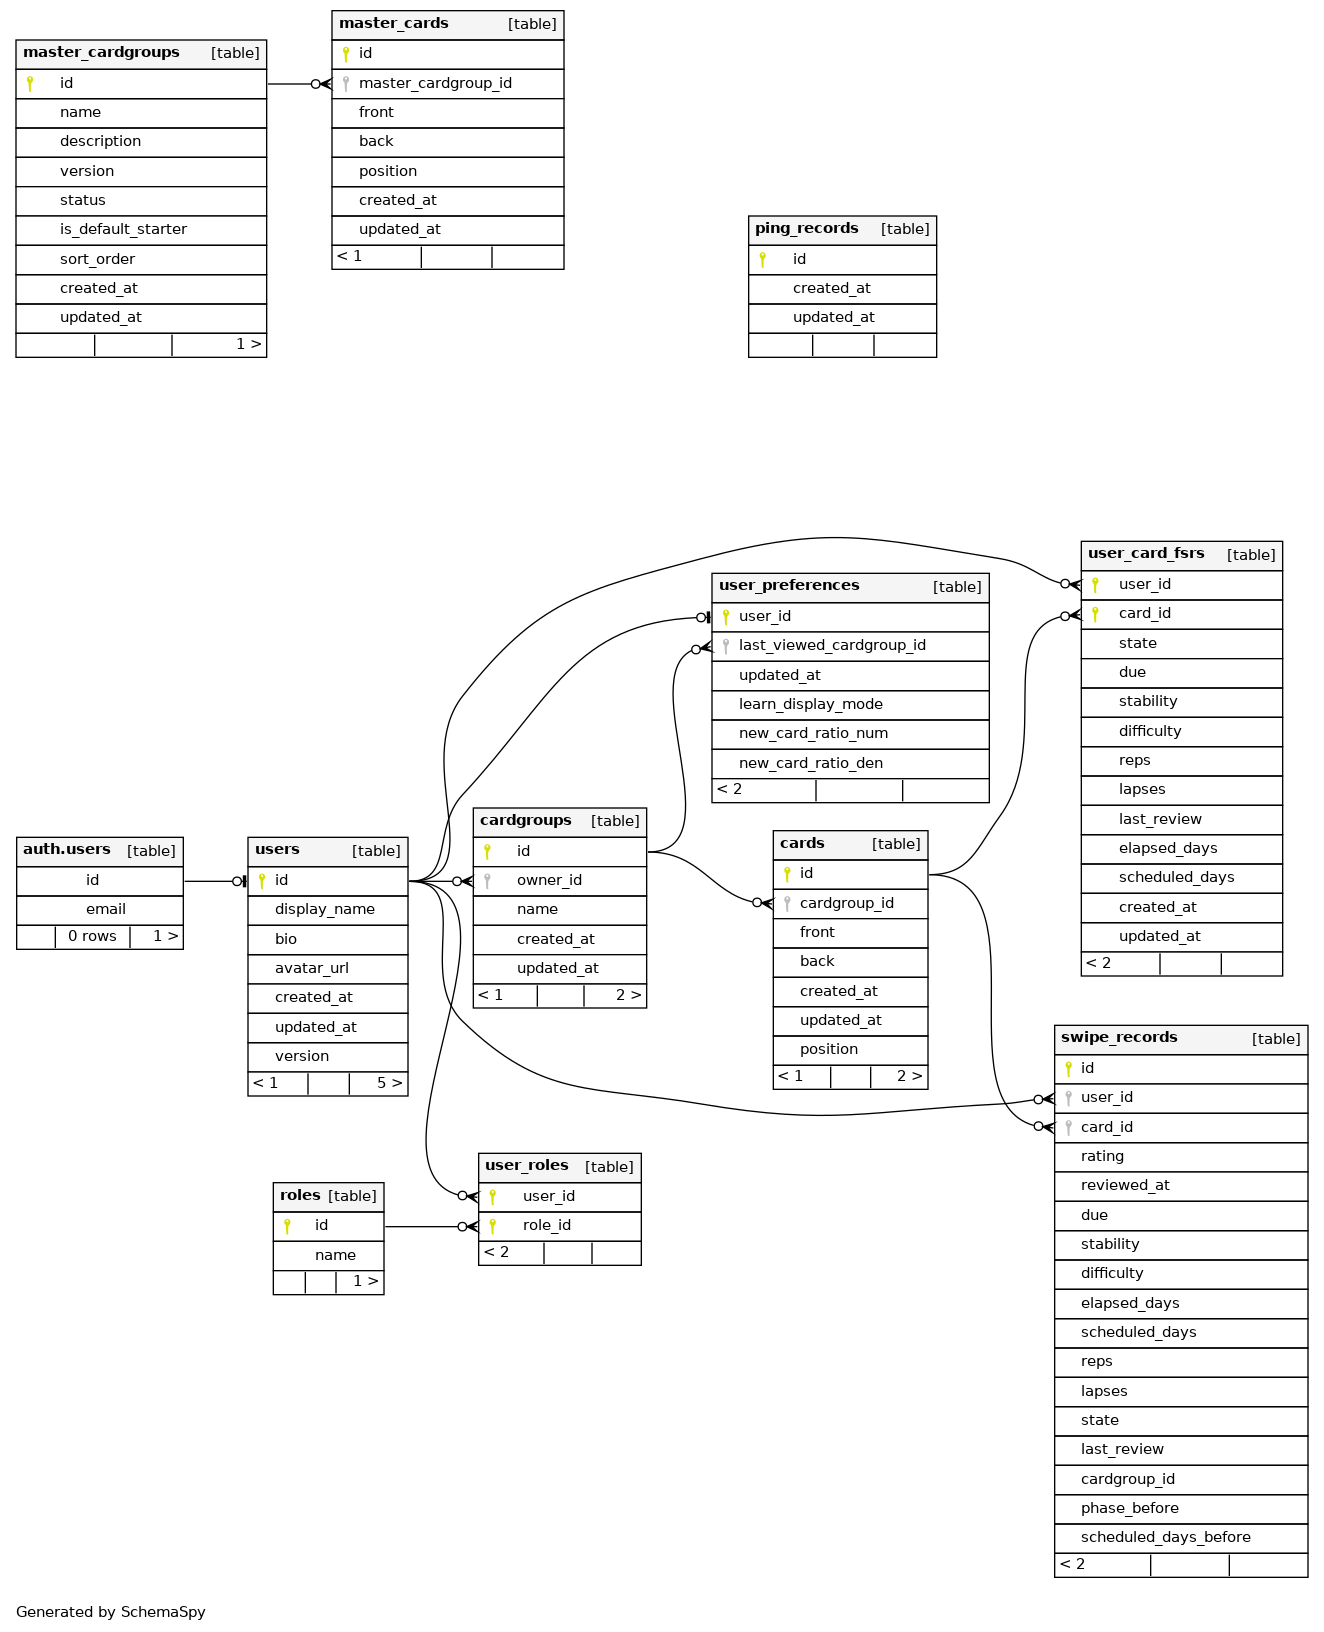
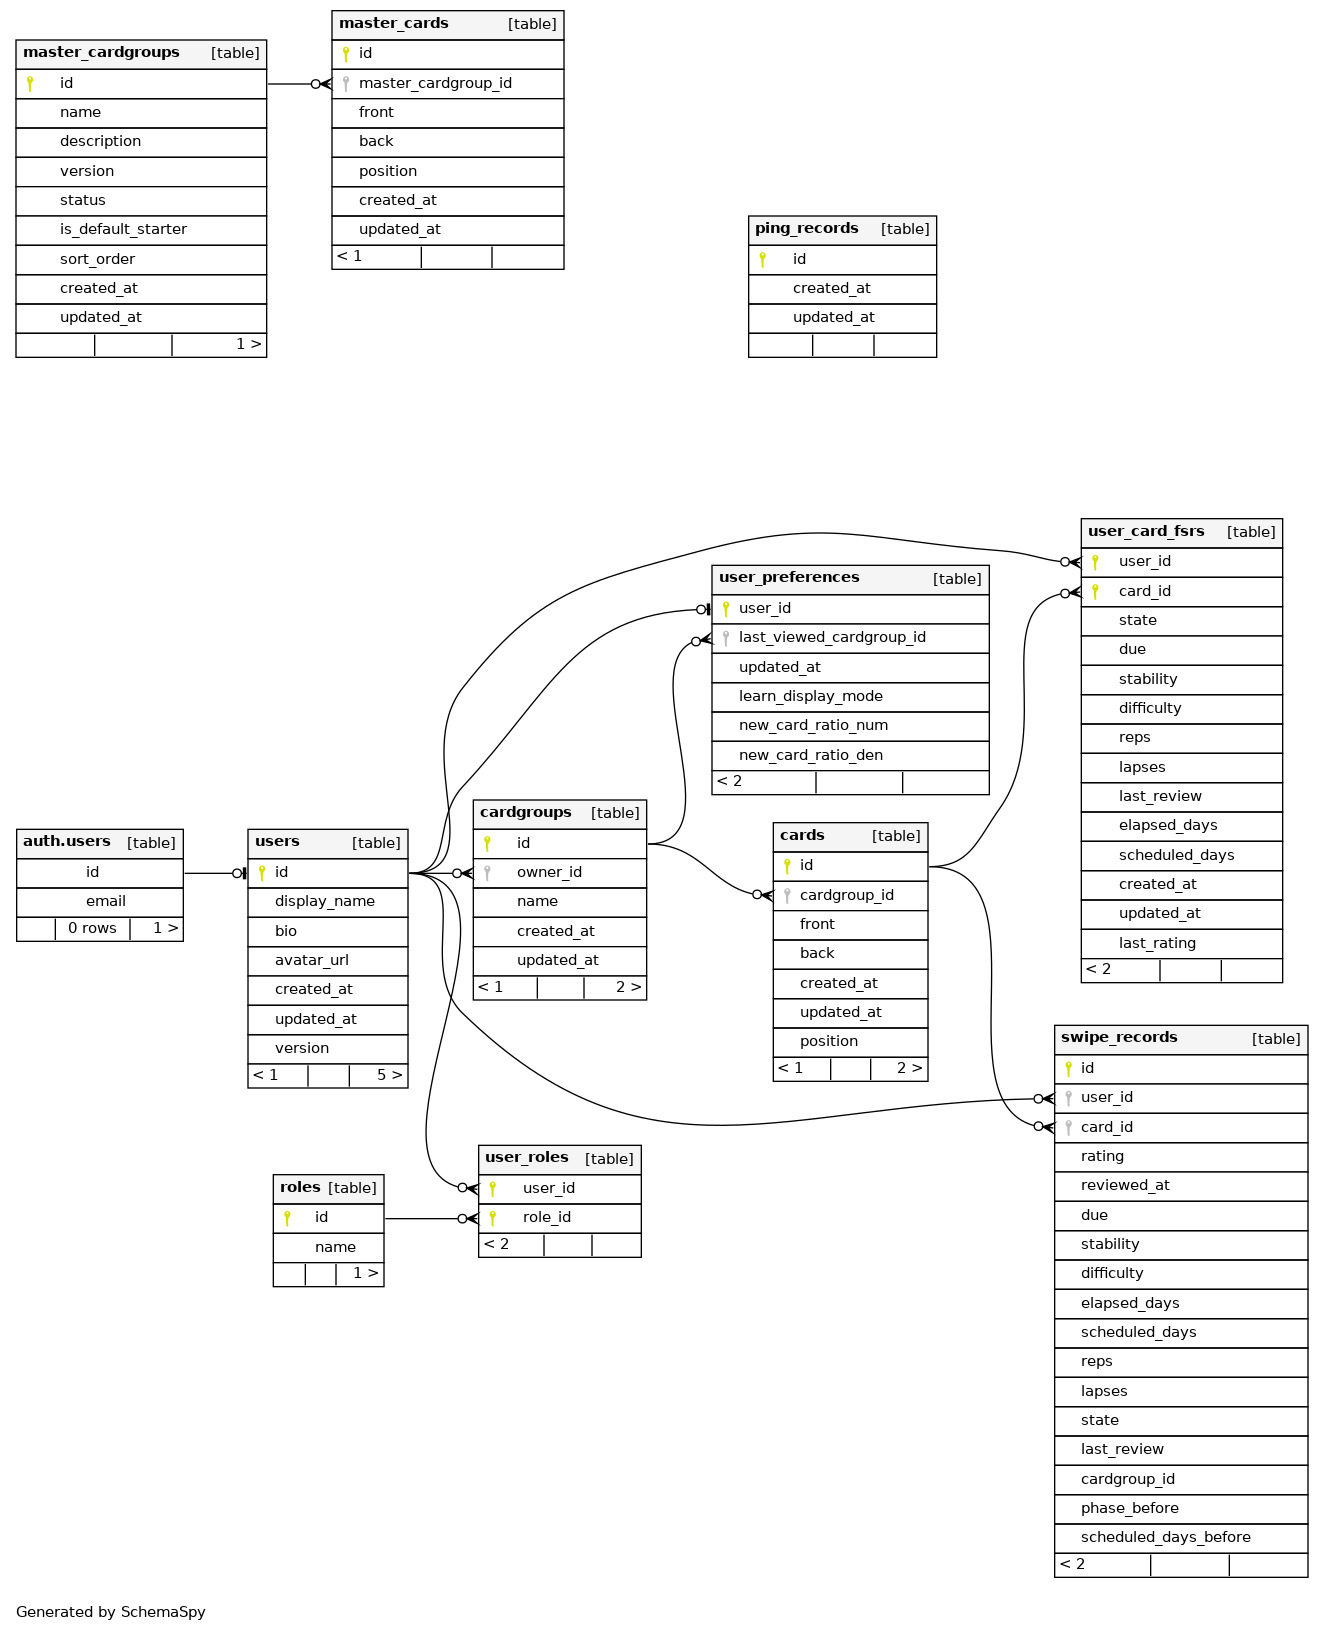
Deploying to gh-pages from @ yasuflatland-lf/flamingo-armond@e6b47bf3279f6e20e6ab1eaff9f585d51d44e749 🚀

diff --git a/er-chart/tables/user_card_fsrs.html b/er-chart/tables/user_card_fsrs.html
@@ -339,6 +339,23 @@
                                     </td>
                                     <td></td>
                                 </tr>
+                                <tr>
+                                    <td><span id="last_rating">last_rating</span></td>
+                                    <td>int2</td>
+                                    <td>5</td>
+                                    <td title='nullable'>√</td>
+                                    <td title=''></td>
+                                    <td>null</td>
+                                    <td>
+                                        <table border='0' cellspacing='0' cellpadding='0'>
+                                        </table>
+                                    </td>
+                                    <td>
+                                        <table border='0' cellspacing='0' cellpadding='0'>
+                                        </table>
+                                    </td>
+                                    <td><p>FSRS rating (1=Again, 2=Hard, 3=Good, 4=Easy) of the swipe that produced this row&rsquo;s state. NULL only when the backfill found no swipe history.</p></td>
+                                </tr>
                                 </tbody>
                             </table>
                         </div>
@@ -410,7 +427,7 @@
                                 <div class="tab-content no-padding">
                                     <div class="chart tab-pane active" id="oneDegreeImg-chart" style="position: relative; overflow-x:auto;">
                                         <map id="oneDegreeRelationshipsDiagram" name="oneDegreeRelationshipsDiagram">
-<area shape="rect" id="node1" href="user_card_fsrs.html" target="_top" title="user_card_fsrs" alt="" coords="231,69,584,520">
+<area shape="rect" id="node1" href="user_card_fsrs.html" target="_top" title="user_card_fsrs" alt="" coords="231,69,584,549">
 <area shape="rect" id="node2" href="cards.html" target="_top" title="cards" alt="" coords="8,169,184,345">
 <area shape="rect" id="node3" href="users.html" target="_top" title="users" alt="" coords="5,5,187,152">
 </map>
@@ -418,14 +435,14 @@
                                     </div>
                                     <div class="chart tab-pane " id="twodegreesDegreeImg-chart" style="position: relative; overflow-x:auto;">
                                         <map id="twoDegreesRelationshipsDiagram" name="twoDegreesRelationshipsDiagram">
-<area shape="rect" id="node1" href="cardgroups.html" target="_top" title="cardgroups" alt="" coords="463,156,657,244">
-<area shape="rect" id="node2" href="users.html" target="_top" title="users" alt="" coords="237,153,419,300">
-<area shape="rect" id="node8" title="auth.users" alt="" coords="5,156,193,244">
-<area shape="rect" id="node3" href="cards.html" target="_top" title="cards" alt="" coords="739,140,915,316">
-<area shape="rect" id="node4" href="swipe_records.html" target="_top" title="swipe_records" alt="" coords="1063,63,1285,151">
-<area shape="rect" id="node5" href="user_card_fsrs.html" target="_top" title="user_card_fsrs" alt="" coords="997,189,1351,640">
-<area shape="rect" id="node6" href="user_preferences.html" target="_top" title="user_preferences" alt="" coords="701,35,953,123">
-<area shape="rect" id="node7" href="user_roles.html" target="_top" title="user_roles" alt="" coords="468,369,652,457">
+<area shape="rect" id="node1" href="cardgroups.html" target="_top" title="cardgroups" alt="" coords="463,149,657,237">
+<area shape="rect" id="node2" href="users.html" target="_top" title="users" alt="" coords="237,146,419,293">
+<area shape="rect" id="node8" title="auth.users" alt="" coords="5,149,193,237">
+<area shape="rect" id="node3" href="cards.html" target="_top" title="cards" alt="" coords="739,133,915,309">
+<area shape="rect" id="node4" href="swipe_records.html" target="_top" title="swipe_records" alt="" coords="1063,10,1285,98">
+<area shape="rect" id="node5" href="user_card_fsrs.html" target="_top" title="user_card_fsrs" alt="" coords="997,170,1351,650">
+<area shape="rect" id="node6" href="user_preferences.html" target="_top" title="user_preferences" alt="" coords="701,28,953,116">
+<area shape="rect" id="node7" href="user_roles.html" target="_top" title="user_roles" alt="" coords="468,362,652,450">
 </map>
                                         <a name='diagram'><img id="twodegreesDegreeImg" src="../diagrams/tables/user_card_fsrs.2degrees.png" usemap="#twoDegreesRelationshipsDiagram" class="diagram" border="0" align="left"></a>
                                     </div>

diff --git a/er-chart/relationships.html b/er-chart/relationships.html
@@ -111,17 +111,17 @@
                                     <div class="chart tab-pane " id="largeDegreeImg-chart" style="position: relative; overflow-x:auto;">
                                         <map id="largeRelationshipsDiagram" name="largeRelationshipsDiagram">
 <area shape="rect" id="node1" href="tables/master_cardgroups.html" target="_top" title="master_cardgroups" alt="" coords="5,35,277,363">
-<area shape="rect" id="node2" href="tables/cardgroups.html" target="_top" title="cardgroups" alt="" coords="463,803,657,1013">
-<area shape="rect" id="node8" href="tables/users.html" target="_top" title="users" alt="" coords="237,832,419,1101">
-<area shape="rect" id="node3" href="tables/roles.html" target="_top" title="roles" alt="" coords="262,1177,394,1300">
+<area shape="rect" id="node2" href="tables/cardgroups.html" target="_top" title="cardgroups" alt="" coords="463,795,657,1005">
+<area shape="rect" id="node8" href="tables/users.html" target="_top" title="users" alt="" coords="237,824,419,1093">
+<area shape="rect" id="node3" href="tables/roles.html" target="_top" title="roles" alt="" coords="262,1169,394,1292">
 <area shape="rect" id="node4" href="tables/swipe_records.html" target="_top" title="swipe_records" alt="" coords="1044,1020,1319,1583">
-<area shape="rect" id="node9" href="tables/cards.html" target="_top" title="cards" alt="" coords="763,825,939,1095">
-<area shape="rect" id="node5" href="tables/user_card_fsrs.html" target="_top" title="user_card_fsrs" alt="" coords="1070,536,1293,981">
-<area shape="rect" id="node6" href="tables/user_preferences.html" target="_top" title="user_preferences" alt="" coords="701,568,1000,808">
+<area shape="rect" id="node9" href="tables/cards.html" target="_top" title="cards" alt="" coords="763,817,939,1087">
+<area shape="rect" id="node5" href="tables/user_card_fsrs.html" target="_top" title="user_card_fsrs" alt="" coords="1070,513,1293,988">
+<area shape="rect" id="node6" href="tables/user_preferences.html" target="_top" title="user_preferences" alt="" coords="701,560,1000,800">
 <area shape="rect" id="node7" href="tables/master_cards.html" target="_top" title="master_cards" alt="" coords="321,5,575,275">
-<area shape="rect" id="node12" title="auth.users" alt="" coords="5,832,193,955">
+<area shape="rect" id="node12" title="auth.users" alt="" coords="5,824,193,947">
 <area shape="rect" id="node10" href="tables/ping_records.html" target="_top" title="ping_records" alt="" coords="737,211,947,363">
-<area shape="rect" id="node11" href="tables/user_roles.html" target="_top" title="user_roles" alt="" coords="468,1148,652,1271">
+<area shape="rect" id="node11" href="tables/user_roles.html" target="_top" title="user_roles" alt="" coords="468,1140,652,1263">
 </map>
                                         <a name='diagram'><img id="largeDegreeImg" src="diagrams/summary/relationships.real.large.png" usemap="#largeRelationshipsDiagram" class="diagram" border="0" align="left"></a>
                                     </div>

diff --git a/er-chart/index.html b/er-chart/index.html
@@ -78,7 +78,7 @@
                         <div class="col-md-12">
                             <div class="callout callout-info">
                                 <h4>SchemaSpy Analysis of armond.public</h4>
-                                <p>Generated on Sat Jul 18 22:55 UTC 2026</p>
+                                <p>Generated on Sun Jul 19 07:28 UTC 2026</p>
                             </div>
                         </div>
                     </div>
@@ -118,7 +118,7 @@
                                 <span class="info-box-icon bg-green"><span class="glyphicon glyphicon-list-alt" aria-hidden="true"></span></span>
                                 <div class="info-box-content">
                                     <span class="info-box-text">COLUMNS</span>
-                                    <span class="info-box-number">78</span>
+                                    <span class="info-box-number">79</span>
                                 </div>
                                 <!-- /.info-box-content -->
                             </div>
@@ -245,7 +245,7 @@
                                         <td class="detail"><a href="tables/user_card_fsrs.html">user_card_fsrs</a></td>
                                         <td class="detail" align="right">0</td>
                                         <td class="detail" align="right">2</td>
-                                        <td class="detail" align="right">13</td>
+                                        <td class="detail" align="right">14</td>
                                         <td class="detail" align="right">-1</td>
                                         <td class="detail" align="right">Table</td>
                                         <td class="comment detail" style="display: table-cell;"></td>

diff --git a/er-chart/tables/master_cardgroups.html b/er-chart/tables/master_cardgroups.html
@@ -343,12 +343,12 @@
                                 </thead>
                                 <tbody>
                                 <tr>
-                                    <td>master_cardgroups_name_length</td>
-                                    <td>((char_length(TRIM(BOTH FROM name)) &gt;&#61; 1) AND (char_length(TRIM(BOTH FROM name)) &lt;&#61; 100))</td>
-                                </tr>
-                                <tr>
                                     <td>master_cardgroups_status_values</td>
                                     <td>(status &#61; ANY (ARRAY[&#39;draft&#39;::text, &#39;published&#39;::text]))</td>
+                                </tr>
+                                <tr>
+                                    <td>master_cardgroups_name_length</td>
+                                    <td>((char_length(TRIM(BOTH FROM name)) &gt;&#61; 1) AND (char_length(TRIM(BOTH FROM name)) &lt;&#61; 100))</td>
                                 </tr>
                                 </tbody>
                             </table>

diff --git a/er-chart/tables/cards.html b/er-chart/tables/cards.html
@@ -319,12 +319,12 @@
                                 </thead>
                                 <tbody>
                                 <tr>
-                                    <td>cards_front_length</td>
-                                    <td>((char_length(TRIM(BOTH FROM front)) &gt;&#61; 1) AND (char_length(TRIM(BOTH FROM front)) &lt;&#61; 500))</td>
-                                </tr>
-                                <tr>
                                     <td>cards_back_length</td>
                                     <td>((char_length(TRIM(BOTH FROM back)) &gt;&#61; 1) AND (char_length(TRIM(BOTH FROM back)) &lt;&#61; 500))</td>
+                                </tr>
+                                <tr>
+                                    <td>cards_front_length</td>
+                                    <td>((char_length(TRIM(BOTH FROM front)) &gt;&#61; 1) AND (char_length(TRIM(BOTH FROM front)) &lt;&#61; 500))</td>
                                 </tr>
                                 </tbody>
                             </table>

diff --git a/er-chart/columns.html b/er-chart/columns.html
@@ -993,6 +993,20 @@
         "comments": ""
     },
     {
+        "tableName": "user_card_fsrs",
+        "tableFileName": "user_card_fsrs",
+        "tableType": "Table",
+        "keyClass": "",
+        "keyTitle": "",
+        "name": "last_rating",
+        "type": "int2",
+        "length": 5,
+        "nullable": "√",
+        "autoUpdated": "",
+        "defaultValue": "null",
+        "comments": "<p>FSRS rating (1=Again, 2=Hard, 3=Good, 4=Easy) of the swipe that produced this row&rsquo;s state. NULL only when the backfill found no swipe history.</p>"
+    },
+    {
         "tableName": "user_preferences",
         "tableFileName": "user_preferences",
         "tableType": "Table",
